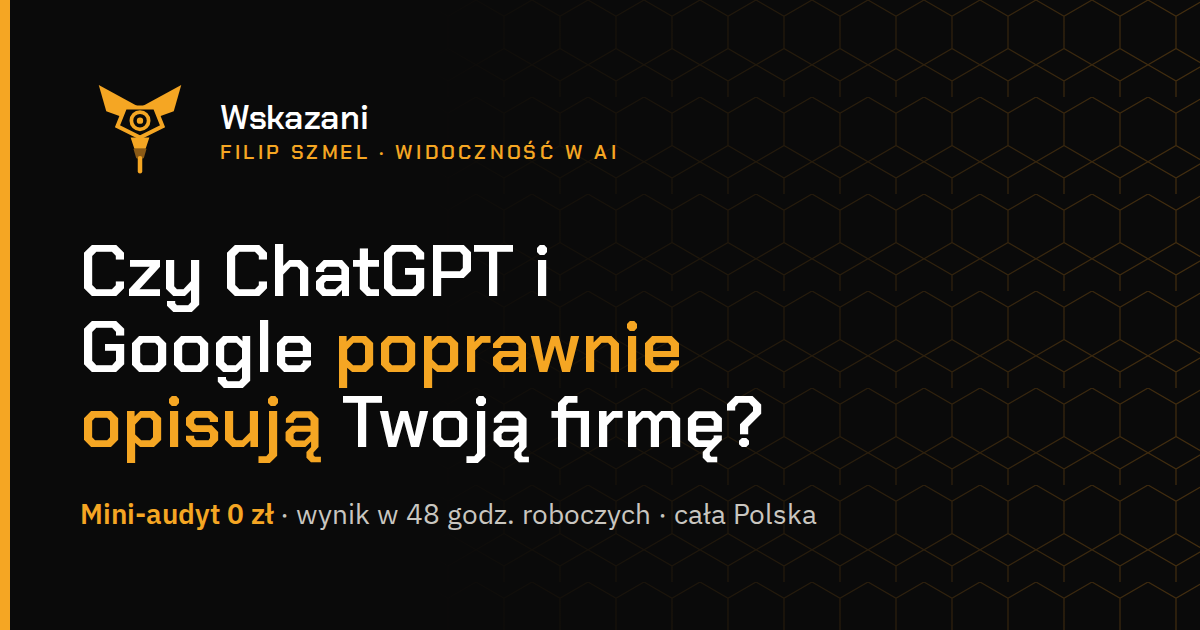
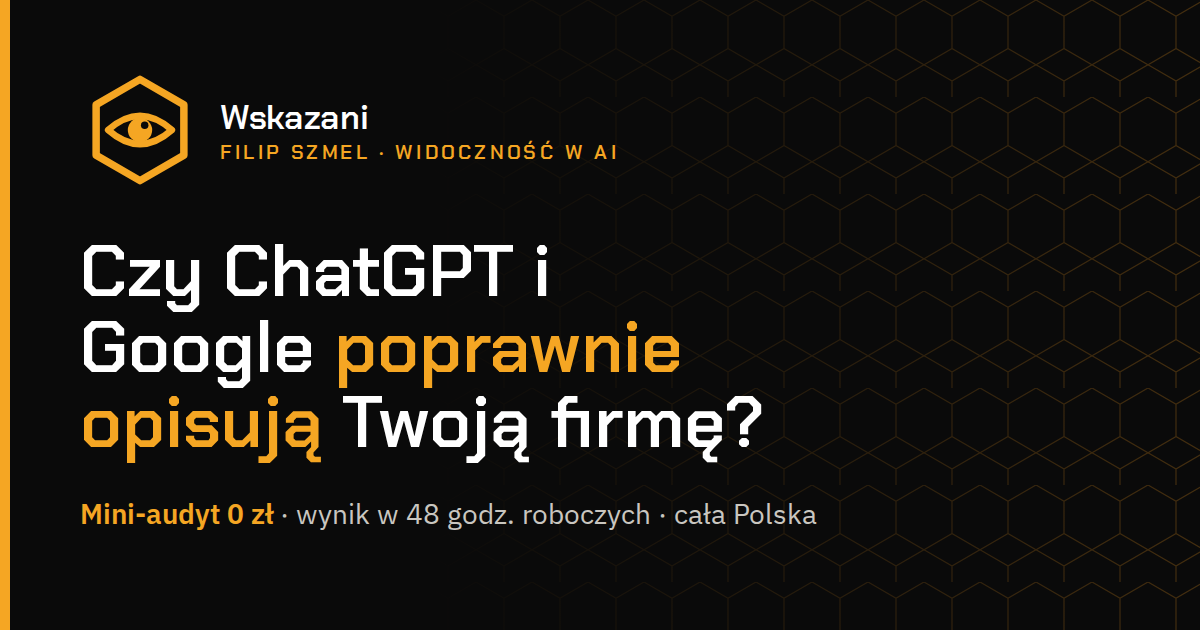
Add files via upload

Changed region(s): [[0.0617, 0.1206, 0.1542, 0.3016]]

diff --git a/index.html b/index.html
@@ -415,7 +415,7 @@ section.block > p, .lede{max-width:62ch}
 <div class="wrap">
 <a class="skip" href="#tresc">Przejdź do treści</a>
 <header class="site-head">
-  <a class="brand" href="/" aria-label="Wskazani — Filip Szmel — strona główna"><svg class="logo-icon" viewBox="0 0 64 64" aria-hidden="true" focusable="false"><g fill="none"><path d="M32 20 L10 8 L14 22 L28 27 Z" fill="#F5A623"/><path d="M32 20 L54 8 L50 22 L36 27 Z" fill="#F5A623"/><path d="M24 20 L40 20 L44 30 L32 36 L20 30 Z" fill="#0A0A0A" stroke="#F5A623" stroke-width="2.2"/><circle cx="32" cy="27" r="4.6" fill="#0A0A0A" stroke="#F5A623" stroke-width="2"/><circle cx="32" cy="27" r="1.7" fill="#F5A623"/><path d="M27 36 L37 36 L35 42 L29 42 Z" fill="#F5A623"/><path d="M28.5 42 L35.5 42 L34 47 L30 47 Z" fill="#8A5A16"/><path d="M32 47 L32 54" stroke="#F5A623" stroke-width="2.4" stroke-linecap="round"/></g></svg><span><span class="n" translate="no">Wskazani</span><span class="t">FILIP SZMEL<span class="t2"> · WIDOCZNOŚĆ W AI</span></span></span></a>
+  <a class="brand" href="/" aria-label="Wskazani — Filip Szmel — strona główna"><svg class="logo-icon" viewBox="0 0 64 64" aria-hidden="true" focusable="false"><path d="M32 5 L55.4 18.5 L55.4 45.5 L32 59 L8.6 45.5 L8.6 18.5 Z" fill="none" stroke="#F5A623" stroke-width="4" stroke-linejoin="round"/><path d="M15 32 Q32 17 49 32 Q32 47 15 32 Z" fill="none" stroke="#F5A623" stroke-width="3.5" stroke-linejoin="round"/><circle cx="32" cy="32" r="6.5" fill="#F5A623"/><circle cx="34.5" cy="29.5" r="2" fill="#0A0A0A"/></svg><span><span class="n" translate="no">Wskazani</span><span class="t">FILIP SZMEL<span class="t2"> · WIDOCZNOŚĆ W AI</span></span></span></a>
   <nav aria-label="Główna"><a class="opt" href="#kalkulator">Kalkulator</a><a class="opt" href="#przyklad-raportu">Przykład raportu</a><a class="opt" href="#wspolpraca">Współpraca</a><a class="opt" href="#faq">FAQ</a><a class="nav-cta" href="#audyt">Darmowy audyt</a></nav>
 </header>
 <main id="tresc">
@@ -582,7 +582,7 @@ section.block > p, .lede{max-width:62ch}
   <h2>Filip Szmel</h2>
   <p class="role">Specjalista ds. widoczności w AI (GEO)</p>
   <div class="about">
-    <svg class="logo-icon" viewBox="0 0 64 64" aria-hidden="true" focusable="false"><g fill="none"><path d="M32 20 L10 8 L14 22 L28 27 Z" fill="#F5A623"/><path d="M32 20 L54 8 L50 22 L36 27 Z" fill="#F5A623"/><path d="M24 20 L40 20 L44 30 L32 36 L20 30 Z" fill="#0A0A0A" stroke="#F5A623" stroke-width="2.2"/><circle cx="32" cy="27" r="4.6" fill="#0A0A0A" stroke="#F5A623" stroke-width="2"/><circle cx="32" cy="27" r="1.7" fill="#F5A623"/><path d="M27 36 L37 36 L35 42 L29 42 Z" fill="#F5A623"/><path d="M28.5 42 L35.5 42 L34 47 L30 47 Z" fill="#8A5A16"/><path d="M32 47 L32 54" stroke="#F5A623" stroke-width="2.4" stroke-linecap="round"/></g></svg>
+    <svg class="logo-icon" viewBox="0 0 64 64" aria-hidden="true" focusable="false"><path d="M32 5 L55.4 18.5 L55.4 45.5 L32 59 L8.6 45.5 L8.6 18.5 Z" fill="none" stroke="#F5A623" stroke-width="4" stroke-linejoin="round"/><path d="M15 32 Q32 17 49 32 Q32 47 15 32 Z" fill="none" stroke="#F5A623" stroke-width="3.5" stroke-linejoin="round"/><circle cx="32" cy="32" r="6.5" fill="#F5A623"/><circle cx="34.5" cy="29.5" r="2" fill="#0A0A0A"/></svg>
     <div>
       <p>Sprawdzam i poprawiam strony małych firm tak, żeby wyszukiwarki i asystenci AI mogli je przeczytać i podać klientom prawdziwe informacje. Pracuję zdalnie z firmami z całej Polski.</p>
       <p>Działam pod marką <span translate="no">Wskazani</span> jako osoba fizyczna (działalność nierejestrowana). Kontakt: <a href="mailto:szmelfilip.business@gmail.com">szmelfilip.business@gmail.com</a>, telefon: <a href="tel:+48502890686">502 890 686</a>, <a href="https://www.linkedin.com/in/filip-szmel-b2993a439/" rel="me noopener" target="_blank">profil na LinkedIn</a>.</p>

diff --git a/404.html b/404.html
@@ -262,7 +262,7 @@ section.block > p, .lede{max-width:62ch}
 <div class="wrap">
 <a class="skip" href="#tresc">Przejdź do treści</a>
 <header class="site-head">
-  <a class="brand" href="/" aria-label="Wskazani — Filip Szmel — strona główna"><svg class="logo-icon" viewBox="0 0 64 64" aria-hidden="true" focusable="false"><g fill="none"><path d="M32 20 L10 8 L14 22 L28 27 Z" fill="#F5A623"/><path d="M32 20 L54 8 L50 22 L36 27 Z" fill="#F5A623"/><path d="M24 20 L40 20 L44 30 L32 36 L20 30 Z" fill="#0A0A0A" stroke="#F5A623" stroke-width="2.2"/><circle cx="32" cy="27" r="4.6" fill="#0A0A0A" stroke="#F5A623" stroke-width="2"/><circle cx="32" cy="27" r="1.7" fill="#F5A623"/><path d="M27 36 L37 36 L35 42 L29 42 Z" fill="#F5A623"/><path d="M28.5 42 L35.5 42 L34 47 L30 47 Z" fill="#8A5A16"/><path d="M32 47 L32 54" stroke="#F5A623" stroke-width="2.4" stroke-linecap="round"/></g></svg><span><span class="n" translate="no">Wskazani</span><span class="t">FILIP SZMEL<span class="t2"> · WIDOCZNOŚĆ W AI</span></span></span></a>
+  <a class="brand" href="/" aria-label="Wskazani — Filip Szmel — strona główna"><svg class="logo-icon" viewBox="0 0 64 64" aria-hidden="true" focusable="false"><path d="M32 5 L55.4 18.5 L55.4 45.5 L32 59 L8.6 45.5 L8.6 18.5 Z" fill="none" stroke="#F5A623" stroke-width="4" stroke-linejoin="round"/><path d="M15 32 Q32 17 49 32 Q32 47 15 32 Z" fill="none" stroke="#F5A623" stroke-width="3.5" stroke-linejoin="round"/><circle cx="32" cy="32" r="6.5" fill="#F5A623"/><circle cx="34.5" cy="29.5" r="2" fill="#0A0A0A"/></svg><span><span class="n" translate="no">Wskazani</span><span class="t">FILIP SZMEL<span class="t2"> · WIDOCZNOŚĆ W AI</span></span></span></a>
   <nav aria-label="Główna"><a class="opt" href="/#kalkulator">Kalkulator</a><a class="opt" href="/#przyklad-raportu">Przykład raportu</a><a class="opt" href="/#wspolpraca">Współpraca</a><a class="opt" href="/#faq">FAQ</a><a class="nav-cta" href="/#audyt">Darmowy audyt</a></nav>
 </header>
 <main id="tresc">

diff --git a/polityka-prywatnosci.html b/polityka-prywatnosci.html
@@ -263,7 +263,7 @@ section.block > p, .lede{max-width:62ch}
 <div class="wrap">
 <a class="skip" href="#tresc">Przejdź do treści</a>
 <header class="site-head">
-  <a class="brand" href="/" aria-label="Wskazani — Filip Szmel — strona główna"><svg class="logo-icon" viewBox="0 0 64 64" aria-hidden="true" focusable="false"><g fill="none"><path d="M32 20 L10 8 L14 22 L28 27 Z" fill="#F5A623"/><path d="M32 20 L54 8 L50 22 L36 27 Z" fill="#F5A623"/><path d="M24 20 L40 20 L44 30 L32 36 L20 30 Z" fill="#0A0A0A" stroke="#F5A623" stroke-width="2.2"/><circle cx="32" cy="27" r="4.6" fill="#0A0A0A" stroke="#F5A623" stroke-width="2"/><circle cx="32" cy="27" r="1.7" fill="#F5A623"/><path d="M27 36 L37 36 L35 42 L29 42 Z" fill="#F5A623"/><path d="M28.5 42 L35.5 42 L34 47 L30 47 Z" fill="#8A5A16"/><path d="M32 47 L32 54" stroke="#F5A623" stroke-width="2.4" stroke-linecap="round"/></g></svg><span><span class="n" translate="no">Wskazani</span><span class="t">FILIP SZMEL<span class="t2"> · WIDOCZNOŚĆ W AI</span></span></span></a>
+  <a class="brand" href="/" aria-label="Wskazani — Filip Szmel — strona główna"><svg class="logo-icon" viewBox="0 0 64 64" aria-hidden="true" focusable="false"><path d="M32 5 L55.4 18.5 L55.4 45.5 L32 59 L8.6 45.5 L8.6 18.5 Z" fill="none" stroke="#F5A623" stroke-width="4" stroke-linejoin="round"/><path d="M15 32 Q32 17 49 32 Q32 47 15 32 Z" fill="none" stroke="#F5A623" stroke-width="3.5" stroke-linejoin="round"/><circle cx="32" cy="32" r="6.5" fill="#F5A623"/><circle cx="34.5" cy="29.5" r="2" fill="#0A0A0A"/></svg><span><span class="n" translate="no">Wskazani</span><span class="t">FILIP SZMEL<span class="t2"> · WIDOCZNOŚĆ W AI</span></span></span></a>
   <nav aria-label="Główna"><a class="opt" href="/#kalkulator">Kalkulator</a><a class="opt" href="/#przyklad-raportu">Przykład raportu</a><a class="opt" href="/#wspolpraca">Współpraca</a><a class="opt" href="/#faq">FAQ</a><a class="nav-cta" href="/#audyt">Darmowy audyt</a></nav>
 </header>
 <main id="tresc">

diff --git a/biura-rachunkowe.html b/biura-rachunkowe.html
@@ -329,7 +329,7 @@ section.block > p, .lede{max-width:62ch}
 <div class="wrap">
 <a class="skip" href="#tresc">Przejdź do treści</a>
 <header class="site-head">
-  <a class="brand" href="/" aria-label="Wskazani — Filip Szmel — strona główna"><svg class="logo-icon" viewBox="0 0 64 64" aria-hidden="true" focusable="false"><g fill="none"><path d="M32 20 L10 8 L14 22 L28 27 Z" fill="#F5A623"/><path d="M32 20 L54 8 L50 22 L36 27 Z" fill="#F5A623"/><path d="M24 20 L40 20 L44 30 L32 36 L20 30 Z" fill="#0A0A0A" stroke="#F5A623" stroke-width="2.2"/><circle cx="32" cy="27" r="4.6" fill="#0A0A0A" stroke="#F5A623" stroke-width="2"/><circle cx="32" cy="27" r="1.7" fill="#F5A623"/><path d="M27 36 L37 36 L35 42 L29 42 Z" fill="#F5A623"/><path d="M28.5 42 L35.5 42 L34 47 L30 47 Z" fill="#8A5A16"/><path d="M32 47 L32 54" stroke="#F5A623" stroke-width="2.4" stroke-linecap="round"/></g></svg><span><span class="n" translate="no">Wskazani</span><span class="t">FILIP SZMEL<span class="t2"> · WIDOCZNOŚĆ W AI</span></span></span></a>
+  <a class="brand" href="/" aria-label="Wskazani — Filip Szmel — strona główna"><svg class="logo-icon" viewBox="0 0 64 64" aria-hidden="true" focusable="false"><path d="M32 5 L55.4 18.5 L55.4 45.5 L32 59 L8.6 45.5 L8.6 18.5 Z" fill="none" stroke="#F5A623" stroke-width="4" stroke-linejoin="round"/><path d="M15 32 Q32 17 49 32 Q32 47 15 32 Z" fill="none" stroke="#F5A623" stroke-width="3.5" stroke-linejoin="round"/><circle cx="32" cy="32" r="6.5" fill="#F5A623"/><circle cx="34.5" cy="29.5" r="2" fill="#0A0A0A"/></svg><span><span class="n" translate="no">Wskazani</span><span class="t">FILIP SZMEL<span class="t2"> · WIDOCZNOŚĆ W AI</span></span></span></a>
   <nav aria-label="Główna"><a class="opt" href="#kalkulator">Kalkulator</a><a class="opt" href="#przyklad-raportu">Przykład raportu</a><a class="opt" href="#wspolpraca">Współpraca</a><a class="opt" href="#faq">FAQ</a><a class="nav-cta" href="#audyt">Darmowy audyt</a></nav>
 </header>
 <main id="tresc">

diff --git a/inne-branze.html b/inne-branze.html
@@ -329,7 +329,7 @@ section.block > p, .lede{max-width:62ch}
 <div class="wrap">
 <a class="skip" href="#tresc">Przejdź do treści</a>
 <header class="site-head">
-  <a class="brand" href="/" aria-label="Wskazani — Filip Szmel — strona główna"><svg class="logo-icon" viewBox="0 0 64 64" aria-hidden="true" focusable="false"><g fill="none"><path d="M32 20 L10 8 L14 22 L28 27 Z" fill="#F5A623"/><path d="M32 20 L54 8 L50 22 L36 27 Z" fill="#F5A623"/><path d="M24 20 L40 20 L44 30 L32 36 L20 30 Z" fill="#0A0A0A" stroke="#F5A623" stroke-width="2.2"/><circle cx="32" cy="27" r="4.6" fill="#0A0A0A" stroke="#F5A623" stroke-width="2"/><circle cx="32" cy="27" r="1.7" fill="#F5A623"/><path d="M27 36 L37 36 L35 42 L29 42 Z" fill="#F5A623"/><path d="M28.5 42 L35.5 42 L34 47 L30 47 Z" fill="#8A5A16"/><path d="M32 47 L32 54" stroke="#F5A623" stroke-width="2.4" stroke-linecap="round"/></g></svg><span><span class="n" translate="no">Wskazani</span><span class="t">FILIP SZMEL<span class="t2"> · WIDOCZNOŚĆ W AI</span></span></span></a>
+  <a class="brand" href="/" aria-label="Wskazani — Filip Szmel — strona główna"><svg class="logo-icon" viewBox="0 0 64 64" aria-hidden="true" focusable="false"><path d="M32 5 L55.4 18.5 L55.4 45.5 L32 59 L8.6 45.5 L8.6 18.5 Z" fill="none" stroke="#F5A623" stroke-width="4" stroke-linejoin="round"/><path d="M15 32 Q32 17 49 32 Q32 47 15 32 Z" fill="none" stroke="#F5A623" stroke-width="3.5" stroke-linejoin="round"/><circle cx="32" cy="32" r="6.5" fill="#F5A623"/><circle cx="34.5" cy="29.5" r="2" fill="#0A0A0A"/></svg><span><span class="n" translate="no">Wskazani</span><span class="t">FILIP SZMEL<span class="t2"> · WIDOCZNOŚĆ W AI</span></span></span></a>
   <nav aria-label="Główna"><a class="opt" href="#kalkulator">Kalkulator</a><a class="opt" href="#przyklad-raportu">Przykład raportu</a><a class="opt" href="#wspolpraca">Współpraca</a><a class="opt" href="#faq">FAQ</a><a class="nav-cta" href="#audyt">Darmowy audyt</a></nav>
 </header>
 <main id="tresc">

diff --git a/kancelarie.html b/kancelarie.html
@@ -329,7 +329,7 @@ section.block > p, .lede{max-width:62ch}
 <div class="wrap">
 <a class="skip" href="#tresc">Przejdź do treści</a>
 <header class="site-head">
-  <a class="brand" href="/" aria-label="Wskazani — Filip Szmel — strona główna"><svg class="logo-icon" viewBox="0 0 64 64" aria-hidden="true" focusable="false"><g fill="none"><path d="M32 20 L10 8 L14 22 L28 27 Z" fill="#F5A623"/><path d="M32 20 L54 8 L50 22 L36 27 Z" fill="#F5A623"/><path d="M24 20 L40 20 L44 30 L32 36 L20 30 Z" fill="#0A0A0A" stroke="#F5A623" stroke-width="2.2"/><circle cx="32" cy="27" r="4.6" fill="#0A0A0A" stroke="#F5A623" stroke-width="2"/><circle cx="32" cy="27" r="1.7" fill="#F5A623"/><path d="M27 36 L37 36 L35 42 L29 42 Z" fill="#F5A623"/><path d="M28.5 42 L35.5 42 L34 47 L30 47 Z" fill="#8A5A16"/><path d="M32 47 L32 54" stroke="#F5A623" stroke-width="2.4" stroke-linecap="round"/></g></svg><span><span class="n" translate="no">Wskazani</span><span class="t">FILIP SZMEL<span class="t2"> · WIDOCZNOŚĆ W AI</span></span></span></a>
+  <a class="brand" href="/" aria-label="Wskazani — Filip Szmel — strona główna"><svg class="logo-icon" viewBox="0 0 64 64" aria-hidden="true" focusable="false"><path d="M32 5 L55.4 18.5 L55.4 45.5 L32 59 L8.6 45.5 L8.6 18.5 Z" fill="none" stroke="#F5A623" stroke-width="4" stroke-linejoin="round"/><path d="M15 32 Q32 17 49 32 Q32 47 15 32 Z" fill="none" stroke="#F5A623" stroke-width="3.5" stroke-linejoin="round"/><circle cx="32" cy="32" r="6.5" fill="#F5A623"/><circle cx="34.5" cy="29.5" r="2" fill="#0A0A0A"/></svg><span><span class="n" translate="no">Wskazani</span><span class="t">FILIP SZMEL<span class="t2"> · WIDOCZNOŚĆ W AI</span></span></span></a>
   <nav aria-label="Główna"><a class="opt" href="#kalkulator">Kalkulator</a><a class="opt" href="#przyklad-raportu">Przykład raportu</a><a class="opt" href="#wspolpraca">Współpraca</a><a class="opt" href="#faq">FAQ</a><a class="nav-cta" href="#audyt">Darmowy audyt</a></nav>
 </header>
 <main id="tresc">

diff --git a/nieruchomosci.html b/nieruchomosci.html
@@ -329,7 +329,7 @@ section.block > p, .lede{max-width:62ch}
 <div class="wrap">
 <a class="skip" href="#tresc">Przejdź do treści</a>
 <header class="site-head">
-  <a class="brand" href="/" aria-label="Wskazani — Filip Szmel — strona główna"><svg class="logo-icon" viewBox="0 0 64 64" aria-hidden="true" focusable="false"><g fill="none"><path d="M32 20 L10 8 L14 22 L28 27 Z" fill="#F5A623"/><path d="M32 20 L54 8 L50 22 L36 27 Z" fill="#F5A623"/><path d="M24 20 L40 20 L44 30 L32 36 L20 30 Z" fill="#0A0A0A" stroke="#F5A623" stroke-width="2.2"/><circle cx="32" cy="27" r="4.6" fill="#0A0A0A" stroke="#F5A623" stroke-width="2"/><circle cx="32" cy="27" r="1.7" fill="#F5A623"/><path d="M27 36 L37 36 L35 42 L29 42 Z" fill="#F5A623"/><path d="M28.5 42 L35.5 42 L34 47 L30 47 Z" fill="#8A5A16"/><path d="M32 47 L32 54" stroke="#F5A623" stroke-width="2.4" stroke-linecap="round"/></g></svg><span><span class="n" translate="no">Wskazani</span><span class="t">FILIP SZMEL<span class="t2"> · WIDOCZNOŚĆ W AI</span></span></span></a>
+  <a class="brand" href="/" aria-label="Wskazani — Filip Szmel — strona główna"><svg class="logo-icon" viewBox="0 0 64 64" aria-hidden="true" focusable="false"><path d="M32 5 L55.4 18.5 L55.4 45.5 L32 59 L8.6 45.5 L8.6 18.5 Z" fill="none" stroke="#F5A623" stroke-width="4" stroke-linejoin="round"/><path d="M15 32 Q32 17 49 32 Q32 47 15 32 Z" fill="none" stroke="#F5A623" stroke-width="3.5" stroke-linejoin="round"/><circle cx="32" cy="32" r="6.5" fill="#F5A623"/><circle cx="34.5" cy="29.5" r="2" fill="#0A0A0A"/></svg><span><span class="n" translate="no">Wskazani</span><span class="t">FILIP SZMEL<span class="t2"> · WIDOCZNOŚĆ W AI</span></span></span></a>
   <nav aria-label="Główna"><a class="opt" href="#kalkulator">Kalkulator</a><a class="opt" href="#przyklad-raportu">Przykład raportu</a><a class="opt" href="#wspolpraca">Współpraca</a><a class="opt" href="#faq">FAQ</a><a class="nav-cta" href="#audyt">Darmowy audyt</a></nav>
 </header>
 <main id="tresc">
